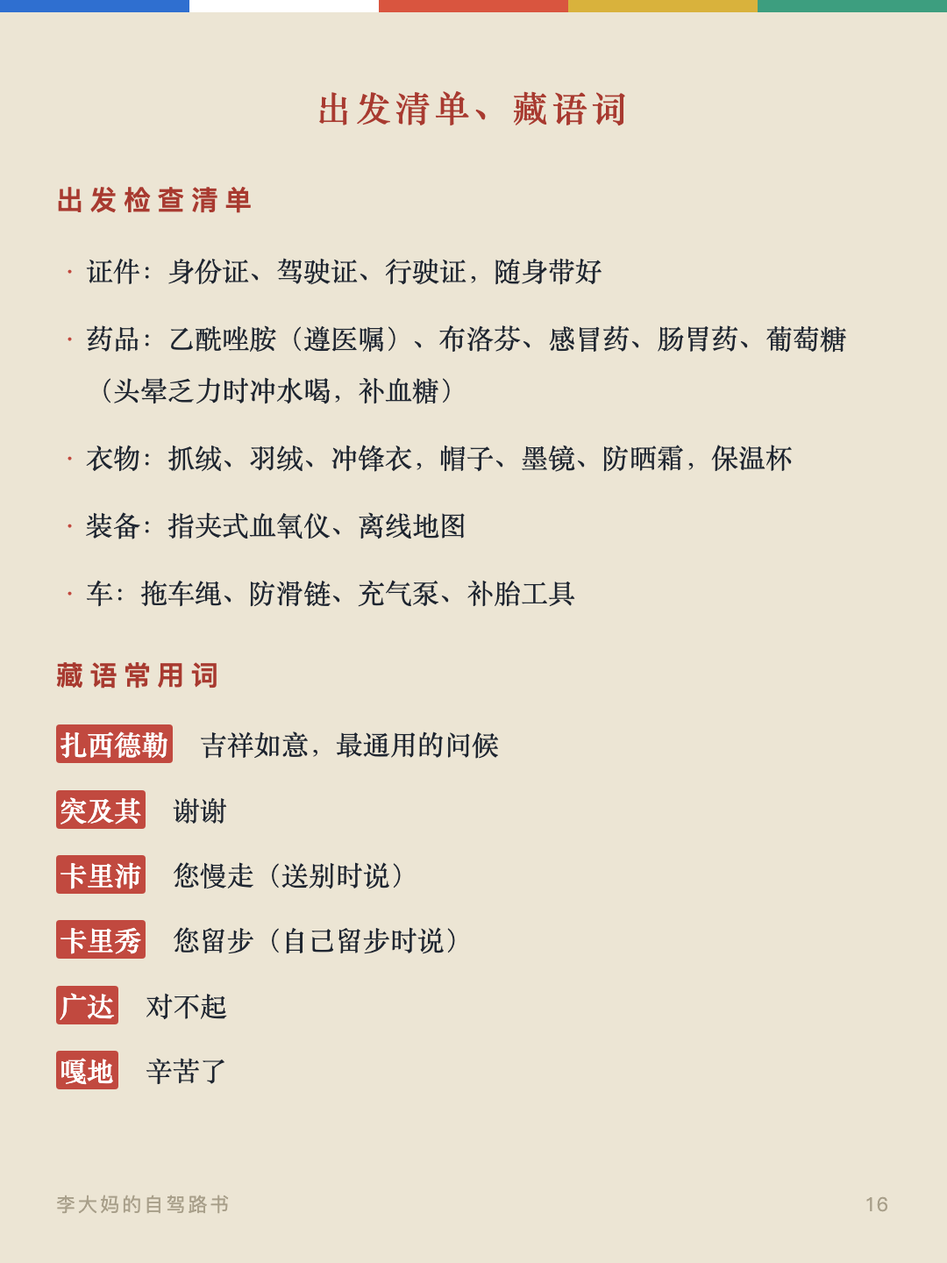
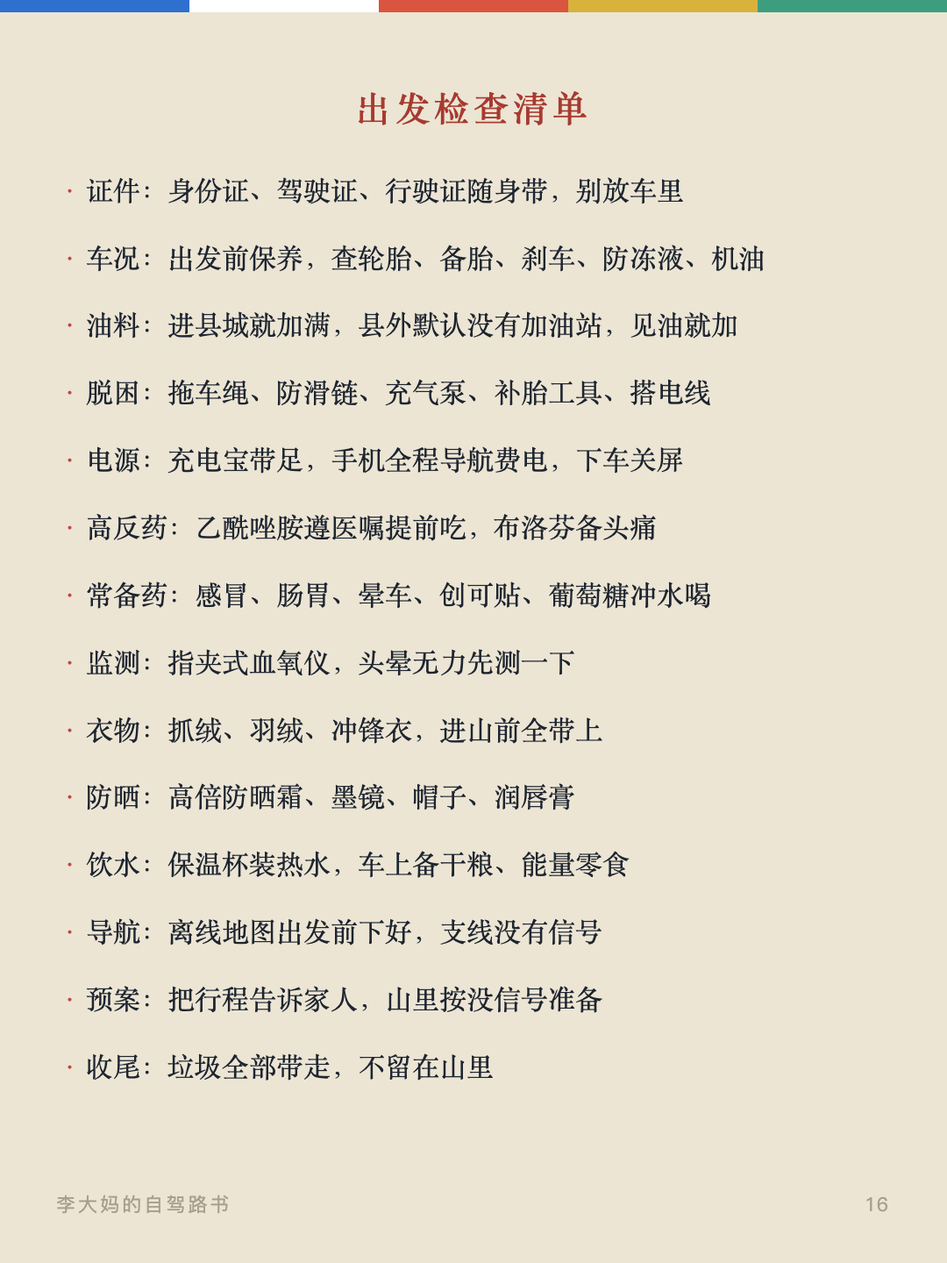
川西路书卡片扩至18页：附录重排为检查清单/官方渠道/危险路段，封面时间更新至9月7日，同步index.html

diff --git a/cards.html b/cards.html
@@ -123,7 +123,7 @@
 </head>
 <body>
 
-<div class="card" id="card1"><div class="flag" aria-hidden="true"><span style="background:var(--flag-blue)"></span><span style="background:var(--flag-white)"></span><span style="background:var(--flag-red)"></span><span style="background:var(--flag-yellow)"></span><span style="background:var(--flag-green)"></span></div><div class="card__inner"><div class="card__kicker">李大妈的自驾路书</div><h1><strong>川西自驾行前笔记</strong></h1><p class="card__intro">川西自驾是一门功课：海拔怎么分层、山河怎么走向、车怎么开山路、信仰怎么分辨、手艺在哪儿、房子为什么长这样。</p><p class="card__meta">我习惯在行前把零碎信息整理成笔记，当作出行线索。笔记更新于2026年8月28日。天气、封路、营业时间等信息随季节变化，出发前应再次查询官方信息。</p><h2>开篇　七章速览</h2><ul class="card__keys"><li><span>海拔决定秩序</span><strong>一　高原的秩序</strong></li> <li><span>山河决定地图</span><strong>二　山河的地图</strong></li> <li><span>在川西开车，慢就是快</span><strong>三　路上的驾驶学</strong></li> <li><span>认得前兆，知道方向</span><strong>四　险情的应对</strong></li> <li><span>看墙色分辨教派</span><strong>五　信仰的世界</strong></li> <li><span>手艺是还在运转的产业</span><strong>六　手艺的文明</strong></li> <li><span>材料决定房子</span><strong>七　建筑的方言</strong></li></ul><div class="card__foot"><span></span><span class="foot-flag" aria-hidden="true"><span style="background:var(--flag-blue)"></span><span style="background:var(--flag-white)"></span><span style="background:var(--flag-red)"></span><span style="background:var(--flag-yellow)"></span><span style="background:var(--flag-green)"></span></span><span>01</span></div></div></div>
+<div class="card" id="card1"><div class="flag" aria-hidden="true"><span style="background:var(--flag-blue)"></span><span style="background:var(--flag-white)"></span><span style="background:var(--flag-red)"></span><span style="background:var(--flag-yellow)"></span><span style="background:var(--flag-green)"></span></div><div class="card__inner"><div class="card__kicker">李大妈的自驾路书</div><h1><strong>川西自驾行前笔记</strong></h1><p class="card__intro">川西自驾是一门功课：海拔怎么分层、山河怎么走向、车怎么开山路、信仰怎么分辨、手艺在哪儿、房子为什么长这样。</p><p class="card__meta">我习惯在行前把零碎信息整理成笔记，当作出行线索。笔记更新于2026年9月7日。天气、封路、营业时间等信息随季节变化，出发前应再次查询官方信息。</p><h2>开篇　七章速览</h2><ul class="card__keys"><li><span>海拔决定秩序</span><strong>一　高原的秩序</strong></li> <li><span>山河决定地图</span><strong>二　山河的地图</strong></li> <li><span>在川西开车，慢就是快</span><strong>三　路上的驾驶学</strong></li> <li><span>认得前兆，知道方向</span><strong>四　险情的应对</strong></li> <li><span>看墙色分辨教派</span><strong>五　信仰的世界</strong></li> <li><span>手艺是还在运转的产业</span><strong>六　手艺的文明</strong></li> <li><span>材料决定房子</span><strong>七　建筑的方言</strong></li></ul><div class="card__foot"><span></span><span class="foot-flag" aria-hidden="true"><span style="background:var(--flag-blue)"></span><span style="background:var(--flag-white)"></span><span style="background:var(--flag-red)"></span><span style="background:var(--flag-yellow)"></span><span style="background:var(--flag-green)"></span></span><span>01</span></div></div></div>
 
 <div class="card" id="card2"><div class="flag" aria-hidden="true"><span style="background:var(--flag-blue)"></span><span style="background:var(--flag-white)"></span><span style="background:var(--flag-red)"></span><span style="background:var(--flag-yellow)"></span><span style="background:var(--flag-green)"></span></div><div class="card__inner"><h3>与人相处</h3><p><strong>牧民。</strong> 牛羊是牧民的主要家当。拍牧民和牲畜，先打招呼再举相机。牧场的帐篷和围栏，不随便进去。</p><p><strong>匠人。</strong> 进工坊先问能不能看，问手艺、问工序，匠人愿意聊就聊。工具和材料不上手碰。买现货，半成品和机压仿品不碰。</p><p><strong>僧侣。</strong> 称呼用“师父”或“上师”。进大殿脱帽、轻声、顺时针走，不拍照、不指佛像。法会时安静看，不打断、不围观起哄。</p><p><strong>司机和本地人。</strong> 见面一句“扎西德勒”，气氛就开了。问路、问价，态度客气，多数人都愿意答。本地人大多直接，不绕弯。</p><p><strong>买东西。</strong> 讲好价就照付，不反复缠价。看上了再还价，压完不买<span class="nowrap">最伤和气。</span></p><p><strong>拍照。</strong> 拍人先问，拍寺院内部和法会先看有没有禁令。相机镜头对着人的时候，先问一句，多数人会同意的。</p><div class="card__foot"><span>李大妈的自驾路书</span><span>02</span></div></div></div>
 
@@ -153,9 +153,11 @@
 
 <div class="card" id="card15"><div class="flag" aria-hidden="true"><span style="background:var(--flag-blue)"></span><span style="background:var(--flag-white)"></span><span style="background:var(--flag-red)"></span><span style="background:var(--flag-yellow)"></span><span style="background:var(--flag-green)"></span></div><div class="card__inner"><p>民居在藏寨之外还有几路。乡城白藏房，2020年评上“中国白藏房文化之乡”，现存6000多栋，土木结构，土墙夯筑，能用上百年，墙体收成梯形，大小看柱子多少。传统上四到六层，底层养牲畜，二层住人，上面晒粮。每年有个“白色灌礼”的民俗，用山上一种白土拌水从墙头浇下来，把墙浇白，既加固又祈福。木雅藏房在康定木雅地区，片石砌筑。羌族的桃坪羌寨在阿坝理县，房子叫“庄房”，全石砌成，<strong>工匠不绘图、不计算，全凭经验积累</strong>，石墙一层层向内收分，屋顶平台家家相连，外号“东方神秘古堡”。寨里的羌碉9层、高约30米，经受了1933年叠溪、2008年汶川几次大地震。</p><p>寺院建筑，有一套固定骨架：大经堂（指钦）是核心，佛学院（礼仓）、佛殿（拉康）、印经院在侧，整体依山而建，不追求中轴线对称。大经堂空间高阔、柱网密集，阿坝格尔登寺的大经堂有120根大柱子撑起殿顶。<strong>金顶是等级的标志</strong>，重檐歇山、铜瓦鎏金，顶上立镏金宝瓶、法轮金鹿，是藏汉结合的做法，色达东嘎寺主殿金顶用真金箔，几公里外都看得见。辩经场挨着佛学院，僧人在空地上拍掌问答；转经廊绕着佛堂或佛塔排满转经轮，格尔登寺49米高的佛塔外围有几百个小转经轮。各教派都能看：理塘长青春科尔寺1580年建，占地33万平方米，是康区规模最大的格鲁寺；马尔康大藏寺是嘉绒碉房式；木雅地区还有汉藏结合的碉楼经堂。苯教寺院另成一路，金川雍忠拉顶寺是代表。</p><div class="card__foot"><span>李大妈的自驾路书</span><span>15</span></div></div></div>
 
-<div class="card" id="card16"><div class="flag" aria-hidden="true"><span style="background:var(--flag-blue)"></span><span style="background:var(--flag-white)"></span><span style="background:var(--flag-red)"></span><span style="background:var(--flag-yellow)"></span><span style="background:var(--flag-green)"></span></div><div class="card__inner"><h2>出发清单、藏语词</h2><h3>出发检查清单</h3><ul class="card__list"><li>证件：身份证、驾驶证、行驶证，随身带好</li> <li>药品：乙酰唑胺（遵医嘱）、布洛芬、感冒药、肠胃药、葡萄糖（头晕乏力时冲水喝，补血糖）</li> <li>衣物：抓绒、羽绒、冲锋衣，帽子、墨镜、防晒霜，保温杯</li> <li>装备：指夹式血氧仪、离线地图</li> <li>车：拖车绳、防滑链、充气泵、补胎工具</li></ul><h3>藏语常用词</h3><ul class="card__cwords"><li><b>扎西德勒</b>吉祥如意，最通用的问候</li> <li><b>突及其</b>谢谢</li> <li><b>卡里沛</b>您慢走（送别时说）</li> <li><b>卡里秀</b>您留步（自己留步时说）</li> <li><b>广达</b>对不起</li> <li><b>嘎地</b>辛苦了</li></ul><div class="card__foot"><span>李大妈的自驾路书</span><span>16</span></div></div></div>
+<div class="card" id="card16"><div class="flag" aria-hidden="true"><span style="background:var(--flag-blue)"></span><span style="background:var(--flag-white)"></span><span style="background:var(--flag-red)"></span><span style="background:var(--flag-yellow)"></span><span style="background:var(--flag-green)"></span></div><div class="card__inner"><h2>出发检查清单</h2><ul class="card__list"><li>证件：身份证、驾驶证、行驶证随身带，别放车里</li> <li>车况：出发前保养，查轮胎、备胎、刹车、防冻液、机油</li> <li>油料：进县城就加满，县外默认没有加油站，见油就加</li> <li>脱困：拖车绳、防滑链、充气泵、补胎工具、搭电线</li> <li>电源：充电宝带足，手机全程导航费电，下车关屏</li> <li>高反药：乙酰唑胺遵医嘱提前吃，布洛芬备头痛</li> <li>常备药：感冒、肠胃、晕车、创可贴、葡萄糖冲水喝</li> <li>监测：指夹式血氧仪，头晕无力先测一下</li> <li>衣物：抓绒、羽绒、冲锋衣，进山前全带上</li> <li>防晒：高倍防晒霜、墨镜、帽子、润唇膏</li> <li>饮水：保温杯装热水，车上备干粮、能量零食</li> <li>导航：离线地图出发前下好，支线没有信号</li> <li>预案：把行程告诉家人，山里按没信号准备</li> <li>收尾：垃圾全部带走，不留在山里</li></ul><div class="card__foot"><span>李大妈的自驾路书</span><span>16</span></div></div></div>
 
-<div class="card" id="card17"><div class="flag" aria-hidden="true"><span style="background:var(--flag-blue)"></span><span style="background:var(--flag-white)"></span><span style="background:var(--flag-red)"></span><span style="background:var(--flag-yellow)"></span><span style="background:var(--flag-green)"></span></div><div class="card__inner"><h3>延伸阅读</h3><ul class="card__cwords"><li><b>香巴拉深处</b>纪录片，2018，豆瓣8.7。四川藏区人文，理塘、金川、稻城亚丁都在片里，讲普通人过日子</li> <li><b>第三极</b>纪录片，青藏高原全貌，和《香巴拉深处》同一个总制片人</li> <li><b>尘埃落定</b>阿来，2000年茅盾文学奖。写阿坝马尔康的嘉绒土司，路上看的碉楼寨房就是小说里的世界</li> <li><b>艽野尘梦</b>陈渠珍。清末川藏亲历记，羌塘逃生115人活7人</li></ul><h3>官方渠道</h3><ul class="card__cwords"><li><b>掌上通甘孜</b>小程序和公众号，甘孜州交通运输局官方，实时路况、气象预警、充电桩查询</li> <li><b>一部手机游阿坝</b>小程序和公众号，阿坝州文旅局上线，门票预约、自驾路线、实时客流</li> <li><b>阿坝交通</b>公众号，实时路况与避堵提醒</li></ul><div class="card__foot"><span>李大妈的自驾路书</span><span>17</span></div></div></div>
+<div class="card" id="card17"><div class="flag" aria-hidden="true"><span style="background:var(--flag-blue)"></span><span style="background:var(--flag-white)"></span><span style="background:var(--flag-red)"></span><span style="background:var(--flag-yellow)"></span><span style="background:var(--flag-green)"></span></div><div class="card__inner"><h2>路上的官方渠道</h2><h3>路况与管制</h3><ul class="card__cwords"><li><b>四川交通广播</b>FM101.7，全省实时路况与封路</li> <li><b>阿坝公安交警</b>州内路况管制，汛期公示危险路段</li> <li><b>甘孜州交管支队</b>州内管制与路况，微博同步发</li> <li><b>康定公安正警事儿</b>折多山管制多临时处置，实时看这里</li></ul><h3>天气与预警</h3><ul class="card__cwords"><li><b>四川气象</b>暴雨与地灾预警，进山前一天看</li> <li><b>中央气象台</b>垭口前看逐小时，比手机默认准</li> <li><b>国家预警发布</b>预警集中推送，保持通知开启</li> <li>救援电话：高速12122，报警96122</li></ul><div class="card__foot"><span>李大妈的自驾路书</span><span>17</span></div></div></div>
+
+<div class="card" id="card18"><div class="flag" aria-hidden="true"><span style="background:var(--flag-blue)"></span><span style="background:var(--flag-white)"></span><span style="background:var(--flag-red)"></span><span style="background:var(--flag-yellow)"></span><span style="background:var(--flag-green)"></span></div><div class="card__inner"><h2>易出险的路段</h2><h3>冰雪与暗冰</h3><ul class="card__cwords"><li><b>折多山</b>G318康定侧，自驾第一道雪山关，雾冰多发</li> <li><b>夹金山</b>雅安宝兴通小金，垭口约4100米，冬季全段禁行</li> <li><b>巴朗山</b>卧龙通小金，垭口高，冬季易封</li> <li><b>雀儿山</b>G317德格段，冰期长，隧道两头路面易暗冰</li> <li><b>剪子弯山、卡子拉山</b>G318理塘方向，长垭口风雪路滑</li></ul><h3>塌方与落石</h3><ul class="card__cwords"><li><b>雅康高速泸定段</b>二郎山到泸定，暴雨后易断道</li> <li><b>大渡河谷</b>泸定到丹巴，雨季塌方飞石多</li> <li><b>G317汶川到理县</b>峡谷临河落石多，雨天慎行</li> <li><b>金沙江沿岸</b>白玉到德格，雨后多溜方</li> <li><b>非铺装穿越路</b>雨后泥泞，遇雨改期不要硬冲</li></ul><div class="card__foot"><span>李大妈的自驾路书</span><span>18</span></div></div></div>
 
 
 <script>

diff --git a/index.html b/index.html
@@ -181,7 +181,7 @@
     <div class="hero__kicker">李大妈的自驾路书</div>
     <h1><strong>川西自驾行前笔记</strong></h1>
     <p class="hero__intro">川西自驾是一门功课：海拔怎么分层、山河怎么走向、车怎么开山路、信仰怎么分辨、手艺在哪儿、房子为什么长这样。</p>
-    <p class="hero__meta">我习惯在行前把零碎信息整理成笔记，当作出行线索。笔记更新于2026年8月28日。天气、封路、营业时间等信息随季节变化，出发前应再次查询官方信息。</p>
+    <p class="hero__meta">我习惯在行前把零碎信息整理成笔记，当作出行线索。笔记更新于2026年9月7日。天气、封路、营业时间等信息随季节变化，出发前应再次查询官方信息。</p>
     <div class="flag" aria-hidden="true"><span class="b"></span><span class="w"></span><span class="r"></span><span class="y"></span><span class="g"></span></div>
     <nav class="nav" aria-label="章节跳转">
       <a href="#key">开篇</a>
@@ -309,39 +309,58 @@
 
     <!-- 附录 -->
     <section class="part appendix" id="appendix">
-      <div class="part__head"><span class="part__no" aria-hidden="true">附</span><h2>出发清单、藏语词</h2></div>
+      <div class="part__head"><span class="part__no" aria-hidden="true">附</span><h2>出发清单、路况与险段</h2></div>
 
       <h3>出发检查清单</h3>
       <ul>
-        <li>证件：身份证、驾驶证、行驶证，随身带好</li>
-        <li>药品：乙酰唑胺（遵医嘱）、布洛芬、感冒药、肠胃药、葡萄糖（头晕乏力时冲水喝，补血糖）</li>
-        <li>衣物：抓绒、羽绒、冲锋衣，帽子、墨镜、防晒霜，保温杯</li>
-        <li>装备：指夹式血氧仪、离线地图</li>
-        <li>车：拖车绳、防滑链、充气泵、补胎工具</li>
+        <li>证件：身份证、驾驶证、行驶证随身带，别放车里</li>
+        <li>车况：出发前保养，查轮胎、备胎、刹车、防冻液、机油</li>
+        <li>油料：进县城就加满，县外默认没有加油站，见油就加</li>
+        <li>脱困：拖车绳、防滑链、充气泵、补胎工具、搭电线</li>
+        <li>电源：充电宝带足，手机全程导航费电，下车关屏</li>
+        <li>高反药：乙酰唑胺遵医嘱提前吃，布洛芬备头痛</li>
+        <li>常备药：感冒、肠胃、晕车、创可贴、葡萄糖冲水喝</li>
+        <li>监测：指夹式血氧仪，头晕无力先测一下</li>
+        <li>衣物：抓绒、羽绒、冲锋衣，进山前全带上</li>
+        <li>防晒：高倍防晒霜、墨镜、帽子、润唇膏</li>
+        <li>饮水：保温杯装热水，车上备干粮、能量零食</li>
+        <li>导航：离线地图出发前下好，支线没有信号</li>
+        <li>预案：把行程告诉家人，山里按没信号准备</li>
+        <li>收尾：垃圾全部带走，不留在山里</li>
       </ul>
 
-      <h3>藏语常用词</h3>
+      <h3>路况与管制</h3>
       <ul class="c-words">
-        <li><b>扎西德勒</b>吉祥如意，最通用的问候</li>
-        <li><b>突及其</b>谢谢</li>
-        <li><b>卡里沛</b>您慢走（送别时说）</li>
-        <li><b>卡里秀</b>您留步（自己留步时说）</li>
-        <li><b>广达</b>对不起</li>
-        <li><b>嘎地</b>辛苦了</li>
+        <li><b>四川交通广播</b>FM101.7，全省实时路况与封路</li>
+        <li><b>阿坝公安交警</b>州内路况管制，汛期公示危险路段</li>
+        <li><b>甘孜州交管支队</b>州内管制与路况，微博同步发</li>
+        <li><b>康定公安正警事儿</b>折多山管制多临时处置，实时看这里</li>
       </ul>
 
-      <h3>延伸阅读</h3>
+      <h3>天气与预警</h3>
       <ul class="c-words">
-        <li><b>香巴拉深处</b>纪录片，2018，豆瓣8.7。四川藏区人文，理塘、金川、稻城亚丁都在片里，讲普通人过日子</li>
-        <li><b>第三极</b>纪录片，青藏高原全貌，和《香巴拉深处》同一个总制片人</li>
-        <li><b>尘埃落定</b>阿来，2000年茅盾文学奖。写阿坝马尔康的嘉绒土司，路上看的碉楼寨房就是小说里的世界</li>
-        <li><b>艽野尘梦</b>陈渠珍。清末川藏亲历记，羌塘逃生115人活7人</li>
+        <li><b>四川气象</b>暴雨与地灾预警，进山前一天看</li>
+        <li><b>中央气象台</b>垭口前看逐小时，比手机默认准</li>
+        <li><b>国家预警发布</b>预警集中推送，保持通知开启</li>
+        <li>救援电话：高速12122，报警96122</li>
       </ul>
-      <h3>官方渠道</h3>
+
+      <h3>易出险的路段</h3>
+      <h3>冰雪与暗冰</h3>
       <ul class="c-words">
-        <li><b>掌上通甘孜</b>小程序和公众号，甘孜州交通运输局官方，实时路况、气象预警、充电桩查询</li>
-        <li><b>一部手机游阿坝</b>小程序和公众号，阿坝州文旅局上线，门票预约、自驾路线、实时客流</li>
-        <li><b>阿坝交通</b>公众号，实时路况与避堵提醒</li>
+        <li><b>折多山</b>G318康定侧，自驾第一道雪山关，雾冰多发</li>
+        <li><b>夹金山</b>雅安宝兴通小金，垭口约4100米，冬季全段禁行</li>
+        <li><b>巴朗山</b>卧龙通小金，垭口高，冬季易封</li>
+        <li><b>雀儿山</b>G317德格段，冰期长，隧道两头路面易暗冰</li>
+        <li><b>剪子弯山、卡子拉山</b>G318理塘方向，长垭口风雪路滑</li>
+      </ul>
+      <h3>塌方与落石</h3>
+      <ul class="c-words">
+        <li><b>雅康高速泸定段</b>二郎山到泸定，暴雨后易断道</li>
+        <li><b>大渡河谷</b>泸定到丹巴，雨季塌方飞石多</li>
+        <li><b>G317汶川到理县</b>峡谷临河落石多，雨天慎行</li>
+        <li><b>金沙江沿岸</b>白玉到德格，雨后多溜方</li>
+        <li><b>非铺装穿越路</b>雨后泥泞，遇雨改期不要硬冲</li>
       </ul>
     </section>
 

diff --git a/gen_cards.py b/gen_cards.py
@@ -19,7 +19,7 @@ PAGE1 = [
   ('kicker', '李大妈的自驾路书'),
   ('h1', '<strong>川西自驾行前笔记</strong>'),
   ('intro', '川西自驾是一门功课：海拔怎么分层、山河怎么走向、车怎么开山路、信仰怎么分辨、手艺在哪儿、房子为什么长这样。'),
-  ('meta', '我习惯在行前把零碎信息整理成笔记，当作出行线索。笔记更新于2026年8月28日。天气、封路、营业时间等信息随季节变化，出发前应再次查询官方信息。'),
+  ('meta', '我习惯在行前把零碎信息整理成笔记，当作出行线索。笔记更新于2026年9月7日。天气、封路、营业时间等信息随季节变化，出发前应再次查询官方信息。'),
   ('h2', '开篇\u3000七章速览'),
   ('keys', KEYS),
 ]
@@ -89,16 +89,28 @@ BODY_STREAM = [
   ('p', '寺院建筑，有一套固定骨架：大经堂（指钦）是核心，佛学院（礼仓）、佛殿（拉康）、印经院在侧，整体依山而建，不追求中轴线对称。大经堂空间高阔、柱网密集，阿坝格尔登寺的大经堂有120根大柱子撑起殿顶。<strong>金顶是等级的标志</strong>，重檐歇山、铜瓦鎏金，顶上立镏金宝瓶、法轮金鹿，是藏汉结合的做法，色达东嘎寺主殿金顶用真金箔，几公里外都看得见。辩经场挨着佛学院，僧人在空地上拍掌问答；转经廊绕着佛堂或佛塔排满转经轮，格尔登寺49米高的佛塔外围有几百个小转经轮。各教派都能看：理塘长青春科尔寺1580年建，占地33万平方米，是康区规模最大的格鲁寺；马尔康大藏寺是嘉绒碉房式；木雅地区还有汉藏结合的碉楼经堂。苯教寺院另成一路，金川雍忠拉顶寺是代表。'),
 ]
 
-APPENDIX = [
-  ('h2', '出发清单、藏语词'),
-  ('h3', '出发检查清单'),
-  ('list', '<li>证件：身份证、驾驶证、行驶证，随身带好</li> <li>药品：乙酰唑胺（遵医嘱）、布洛芬、感冒药、肠胃药、葡萄糖（头晕乏力时冲水喝，补血糖）</li> <li>衣物：抓绒、羽绒、冲锋衣，帽子、墨镜、防晒霜，保温杯</li> <li>装备：指夹式血氧仪、离线地图</li> <li>车：拖车绳、防滑链、充气泵、补胎工具</li>'),
-  ('h3', '藏语常用词'),
-  ('cwords', '<li><b>扎西德勒</b>吉祥如意，最通用的问候</li> <li><b>突及其</b>谢谢</li> <li><b>卡里沛</b>您慢走（送别时说）</li> <li><b>卡里秀</b>您留步（自己留步时说）</li> <li><b>广达</b>对不起</li> <li><b>嘎地</b>辛苦了</li>'),
-  ('h3', '延伸阅读'),
-  ('cwords', '<li><b>香巴拉深处</b>纪录片，2018，豆瓣8.7。四川藏区人文，理塘、金川、稻城亚丁都在片里，讲普通人过日子</li> <li><b>第三极</b>纪录片，青藏高原全貌，和《香巴拉深处》同一个总制片人</li> <li><b>尘埃落定</b>阿来，2000年茅盾文学奖。写阿坝马尔康的嘉绒土司，路上看的碉楼寨房就是小说里的世界</li> <li><b>艽野尘梦</b>陈渠珍。清末川藏亲历记，羌塘逃生115人活7人</li>'),
-  ('h3', '官方渠道'),
-  ('cwords', '<li><b>掌上通甘孜</b>小程序和公众号，甘孜州交通运输局官方，实时路况、气象预警、充电桩查询</li> <li><b>一部手机游阿坝</b>小程序和公众号，阿坝州文旅局上线，门票预约、自驾路线、实时客流</li> <li><b>阿坝交通</b>公众号，实时路况与避堵提醒</li>'),
+A_PAGES = [
+  # 附录第1页（16）——出发检查清单（通用版）
+  [
+    ('h2', '出发检查清单'),
+    ('list', '<li>证件：身份证、驾驶证、行驶证随身带，别放车里</li> <li>车况：出发前保养，查轮胎、备胎、刹车、防冻液、机油</li> <li>油料：进县城就加满，县外默认没有加油站，见油就加</li> <li>脱困：拖车绳、防滑链、充气泵、补胎工具、搭电线</li> <li>电源：充电宝带足，手机全程导航费电，下车关屏</li> <li>高反药：乙酰唑胺遵医嘱提前吃，布洛芬备头痛</li> <li>常备药：感冒、肠胃、晕车、创可贴、葡萄糖冲水喝</li> <li>监测：指夹式血氧仪，头晕无力先测一下</li> <li>衣物：抓绒、羽绒、冲锋衣，进山前全带上</li> <li>防晒：高倍防晒霜、墨镜、帽子、润唇膏</li> <li>饮水：保温杯装热水，车上备干粮、能量零食</li> <li>导航：离线地图出发前下好，支线没有信号</li> <li>预案：把行程告诉家人，山里按没信号准备</li> <li>收尾：垃圾全部带走，不留在山里</li>'),
+  ],
+  # 附录第2页（17）——路况与预警的官方渠道
+  [
+    ('h2', '路上的官方渠道'),
+    ('h3', '路况与管制'),
+    ('cwords', '<li><b>四川交通广播</b>FM101.7，全省实时路况与封路</li> <li><b>阿坝公安交警</b>州内路况管制，汛期公示危险路段</li> <li><b>甘孜州交管支队</b>州内管制与路况，微博同步发</li> <li><b>康定公安正警事儿</b>折多山管制多临时处置，实时看这里</li>'),
+    ('h3', '天气与预警'),
+    ('cwords', '<li><b>四川气象</b>暴雨与地灾预警，进山前一天看</li> <li><b>中央气象台</b>垭口前看逐小时，比手机默认准</li> <li><b>国家预警发布</b>预警集中推送，保持通知开启</li> <li>救援电话：高速12122，报警96122</li>'),
+  ],
+  # 附录第3页（18）——易出险的路段（通用版，常走路段在前）
+  [
+    ('h2', '易出险的路段'),
+    ('h3', '冰雪与暗冰'),
+    ('cwords', '<li><b>折多山</b>G318康定侧，自驾第一道雪山关，雾冰多发</li> <li><b>夹金山</b>雅安宝兴通小金，垭口约4100米，冬季全段禁行</li> <li><b>巴朗山</b>卧龙通小金，垭口高，冬季易封</li> <li><b>雀儿山</b>G317德格段，冰期长，隧道两头路面易暗冰</li> <li><b>剪子弯山、卡子拉山</b>G318理塘方向，长垭口风雪路滑</li>'),
+    ('h3', '塌方与落石'),
+    ('cwords', '<li><b>雅康高速泸定段</b>二郎山到泸定，暴雨后易断道</li> <li><b>大渡河谷</b>泸定到丹巴，雨季塌方飞石多</li> <li><b>G317汶川到理县</b>峡谷临河落石多，雨天慎行</li> <li><b>金沙江沿岸</b>白玉到德格，雨后多溜方</li> <li><b>非铺装穿越路</b>雨后泥泞，遇雨改期不要硬冲</li>'),
+  ],
 ]
 
 
@@ -361,13 +373,13 @@ def render_card(i, blocks):
 
 
 def main():
-    # 总页数 = 页1 + 正文分页 + 附录2页，目标是 17（充电页并入封路页，避免两张半空卡）
+    # 总页数 = 页1 + 正文分页 + 附录3页，目标是 18（附录拆三页：检查清单/官方渠道/危险路段）
     # 内容区可用高度约 1262px，页脚占约 64px，正文安全上限取 1200 左右
     counts = {}
     for H in range(980, 1401, 5):
-        n = 1 + len(partition(BODY_STREAM, H)) + 2
+        n = 1 + len(partition(BODY_STREAM, H)) + len(A_PAGES)
         counts.setdefault(n, H)
-    target = counts.get(17)
+    target = counts.get(18)
     if target is None:
         keys = sorted(counts.keys())
         near = min(keys, key=lambda k: abs(k - 18))
@@ -386,7 +398,7 @@ def main():
             merged.append([pg, h_pg])
     body_pages = [pg for pg, _ in merged]
 
-    pages = [PAGE1] + body_pages + [APPENDIX[:5], APPENDIX[5:]]
+    pages = [PAGE1] + body_pages + A_PAGES
     cards = [render_card(i, blocks) for i, blocks in enumerate(pages, 1)]
 
     for idx, blocks in enumerate(pages, 1):
